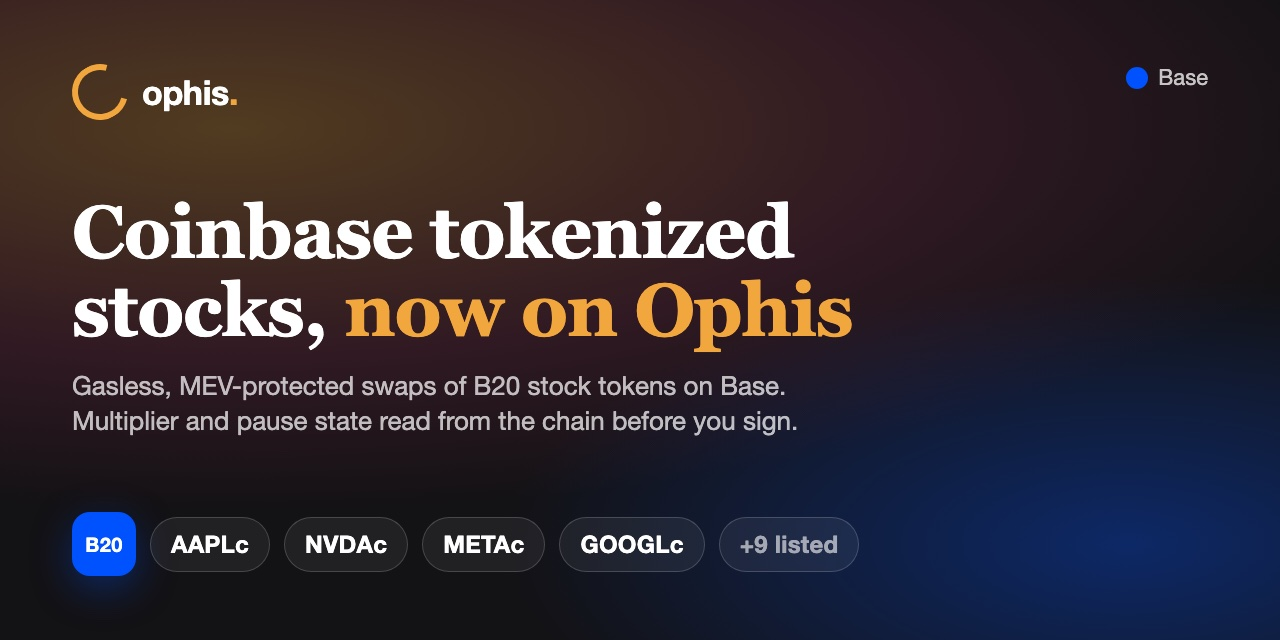
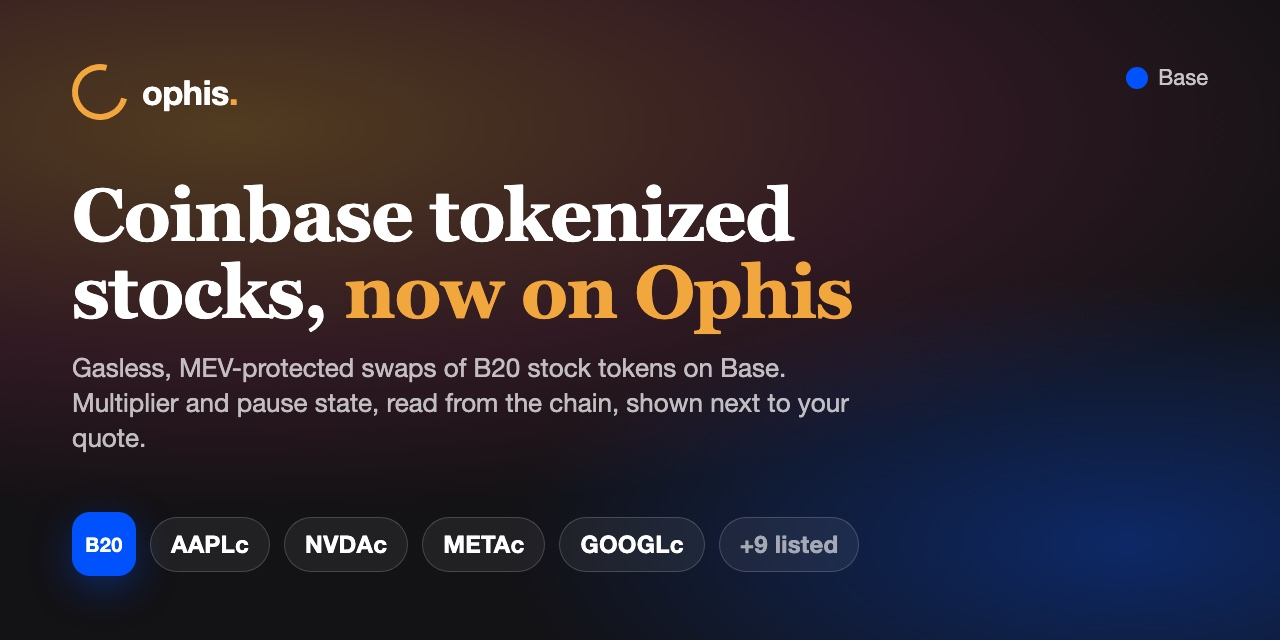
content(blog): tighten the Coinbase stocks post after review
The panel is advisory next to the quote, not a signing gate (cover subtitle
too); permit-free approvals are EOA-only; minting alone does not create
liquidity; rebate tiers are pool weights, not refunds; logos where Coinbase
publishes one; MCP resolve_token on Base does not consult the Coinbase list
yet, so pass addresses.

Claude-Session: https://claude.ai/code/session_016pRzA2xjgTJo61GeKnUXNA

Changed region(s): [[0.0312, 0.2812, 0.6875, 0.7188]]

diff --git a/apps/frontend/apps/ophis-landing/src/content/blog/coinbase-tokenized-stocks-on-base.md b/apps/frontend/apps/ophis-landing/src/content/blog/coinbase-tokenized-stocks-on-base.md
@@ -1,6 +1,6 @@
 ---
 title: "Coinbase tokenized stocks on Base: swap AAPLc, NVDAc and more on Ophis"
-description: "Coinbase's B20 tokenized stocks are live on Base and listed on Ophis: official token list, a stock panel that reads the corporate-action multiplier and pause state from the chain, gasless MEV-protected settlement."
+description: "Coinbase's B20 tokenized stocks are live on Base and listed on Ophis: official token list, a stock panel with the corporate-action multiplier and pause state read from the chain, gasless MEV-protected settlement."
 pubDate: 2026-08-24
 author: Ophis
 tags: [base, tokenized-stocks, coinbase, b20, dex-aggregator, swaps]
@@ -9,7 +9,7 @@ cover: ./coinbase-tokenized-stocks-on-base.cover.jpg
 coverAlt: "Ophis emblem next to a Base blue tile labelled B20, with the AAPLc, NVDAc, METAc and GOOGLc tickers as chips"
 ---
 
-Coinbase launched tokenized stocks on Base on 2026-08-24, and they are listed on Ophis from day one. Open [swap.ophis.fi/#/8453/swap/USDC/AAPLc](https://swap.ophis.fi/#/8453/swap/USDC/AAPLc), connect a wallet, and sign an EIP-712 order: no settlement transaction to broadcast, no gas to pay on an ERC-20 sell, and a signed limit price that is the worst execution you can receive. The tokens are Base-native B20 assets issued by Coinbase, and each one is backed by the underlying share held in regulated custody. Ophis ships its own token list for them, shows a stock panel that reads the corporate-action multiplier and pause state straight from the Base contracts, and routes the order through CoW Protocol's batch auction on Base.
+Coinbase launched tokenized stocks on Base on 2026-08-24, and they are listed on Ophis from day one. Open [swap.ophis.fi/#/8453/swap/USDC/AAPLc](https://swap.ophis.fi/#/8453/swap/USDC/AAPLc), connect a wallet, and sign an EIP-712 order: no settlement transaction to broadcast, no gas to pay on an ERC-20 sell, and a signed limit price that is the worst execution you can receive. The tokens are Base-native B20 assets issued by Coinbase, and each one is backed by the underlying share held in regulated custody. Ophis ships its own token list for them, shows a stock panel next to the quote with the corporate-action multiplier and pause state read from the Base contracts, and routes the order through CoW Protocol's batch auction on Base.
 
 Two sentences of context. Base is chain id 8453, an OP-Stack L2 operated by Coinbase, and one of the 13 EVM chains [Ophis](https://ophis.fi/) supports. Ophis is an intent-based DEX aggregator, a fork of [CoW Protocol](https://docs.cow.fi)'s frontend with a natural-language intent layer and an agent stack on top; on Base it settles through CoW Protocol's hosted orderbook and solver network, so the stock tokens inherit the same MEV protection as every other token on the chain.
 
@@ -19,9 +19,9 @@ Two sentences of context. Base is chain id 8453, an OP-Stack L2 operated by Coin
 
 2. **Connect your wallet.** Ophis is self-custodial. It never holds your funds, and nothing moves without a signature from your wallet (EIP-712 for regular accounts, ERC-1271 for smart-contract accounts).
 
-3. **Pick the stock from the list, or type it.** The Base token selector carries every Coinbase stock with its on-chain symbol, the issuer's logo, and a "Coinbase stock" badge. Search by ticker or company name. Ophis never asks you to paste a contract address for these tokens, which is the point: a token that merely calls itself AAPL is not on that list.
+3. **Pick the stock from the list, or type it.** The Base token selector carries every Coinbase stock with its on-chain symbol, the issuer's logo where Coinbase has published one, and a "Coinbase stock" badge. Search by ticker or company name. Ophis never asks you to paste a contract address for these tokens, which is the point: a token that merely calls itself AAPL is not on that list.
 
-4. **Read the stock panel.** As soon as a Coinbase stock is on either side of the pair, the swap form shows a panel specific to it: the corporate-action multiplier, whether transfers are paused on chain, whether Coinbase has minted supply yet, and the issuer's eligibility statement. More on what each of those means below.
+4. **Read the stock panel.** As soon as a Coinbase stock is on either side of the pair, the swap form shows a panel specific to it: the corporate-action multiplier, whether transfers are paused on chain, whether Coinbase has minted supply yet, and the issuer's eligibility statement. The panel is advisory: it sits next to the quote and says so when its data is unavailable, and it never blocks or alters an order. More on what each of those means below.
 
 5. **Review the quote and sign.** The quote carries a hard limit price, and that limit is what you sign: the worst execution you can receive. Your wallet shows typed data, not a transaction. Orders are gasless, and the fee comes out of the traded amount rather than being billed separately.
 
@@ -50,7 +50,7 @@ One detail is invisible in the app but worth knowing: these tokens have no bytec
 
 ### The thirteen tokens
 
-Thirteen stocks are deployed. Four had supply minted on launch day; the rest exist on chain with zero supply and become tradable the moment Coinbase mints. Ophis lists all thirteen so nothing needs a redeploy when that happens.
+Thirteen stocks are deployed. Four had supply minted on launch day; the rest exist on chain with zero supply. Ophis lists all thirteen, so once Coinbase mints one and a DEX pool holds usable liquidity for it, solvers can quote it without Ophis shipping anything new.
 
 | Token | Company | Address on Base |
 | --- | --- | --- |
@@ -76,9 +76,9 @@ A B20 stock token carries a multiplier. When the underlying pays a dividend or s
 
 On launch day every multiplier reads exactly 1, so the distinction never surfaces. It will. Read the value on the panel rather than assuming it is 1, especially before comparing a token's DEX price to the equity's quote.
 
-## What Ophis checks before you sign
+## What Ophis shows next to the quote
 
-Ophis added a Base-specific verification path in front of the quote, the same way it did for stock tokens on Robinhood Chain.
+Ophis added a Base-specific stock panel beside the quote, the same way it did for stock tokens on Robinhood Chain. It informs the trade; it does not gate it.
 
 **It confirms the token is one Coinbase issued.** The token list Ophis ships for Base was built from the addresses in Base's own documentation, and each entry's name, symbol, decimals and logo were read from the token's on-chain `name()`, `symbol()`, `decimals()` and `contractURI()` rather than typed by hand. That list wins over every other list Ophis loads on Base, so a search for "AAPL" surfaces `AAPLc` with Apple's logo, and the "Coinbase stock" badge is only ever attached through that list. A user-added list cannot spoof it.
 
@@ -86,7 +86,7 @@ Ophis added a Base-specific verification path in front of the quote, the same wa
 
 **It surfaces pauses and unissued supply.** B20 lets the issuer pause transfers per feature. The panel calls `pausedFeatures()` and switches to an attention state if transfers are paused for a token in your pair. It also reads `totalSupply()`: a token that Coinbase has listed but not yet minted shows as "not issued yet", with a note that quotes will return no liquidity until supply exists. That is the state the nine unminted tickers are in at the time of writing.
 
-**It fails visibly, not silently.** The panel's data comes from a same-origin endpoint, [swap.ophis.fi/api/base/tokenized-stocks](https://swap.ophis.fi/api/base/tokenized-stocks), that batches the three views for all thirteen tokens against Base and caches the result at the edge for five minutes. Every value is re-validated before it is served, a failed read is a 502 rather than a partial payload, and there is no stale-while-revalidate window, so an old snapshot is never served as a fresh one. If the endpoint cannot be reached, or a background refresh fails, the panel says the metadata is temporarily unavailable and leaves quoting available so you can decide. Whatever the panel reports, the executable price is always the solver quote.
+**It fails visibly, not silently.** The panel's data comes from a same-origin endpoint, [swap.ophis.fi/api/base/tokenized-stocks](https://swap.ophis.fi/api/base/tokenized-stocks), that batches the three views for all thirteen tokens against Base and caches the result at the edge for five minutes. Every value is re-validated before it is served, a failed read is a 502 rather than a partial payload, and there is no stale-while-revalidate window, so an old snapshot is never served as a fresh one. If the endpoint cannot be reached, or a background refresh fails, the panel says the metadata is temporarily unavailable and leaves quoting and signing available so you can decide; it does not hold your order until a read succeeds. Whatever the panel reports, the executable price is always the solver quote.
 
 **It states the issuer's eligibility.** Coinbase tokenized stocks are only available to persons in eligible jurisdictions outside the U.S. The panel carries that statement on every stock pair. Ophis is a non-custodial interface: it does not hold the tokens, mint them, or redeem them.
 
@@ -94,7 +94,7 @@ Ophis added a Base-specific verification path in front of the quote, the same wa
 
 Base is one of the ten chains where Ophis settles through CoW Protocol's hosted stack rather than its own. Every trade pays the 1 bp Ophis base fee, and Ophis retains 80% of reference-quote improvement on volatile pairs, capped at 99 bps of volume, or 50% on stablecoin pairs, capped at 20 bps; the trader receives the remainder and everything above the cap. CoW Protocol charges its own upstream volume fee on hosted chains, 0.02% on volatile pairs and 0.003% on correlated ones, which Ophis does not receive. A stock-token swap against USDC is a volatile pair, so the all-in fixed cost is 0.03%. The [fee docs](https://docs.ophis.fi/fees) carry the full breakdown per chain type.
 
-Volume then earns part of the Ophis fee back, on rolling 30-day volume:
+Rolling 30-day volume then places you in a rebate tier. The percentage is a weight, not a refund of your own fee: each month, a pool of 21.25% of the WETH fees Ophis collected is split across eligible wallets in proportion to their 30-day volume multiplied by their tier weight.
 
 | Tier | 30-day volume | Rebate |
 | --- | --- | --- |
@@ -104,7 +104,7 @@ Volume then earns part of the Ophis fee back, on rolling 30-day volume:
 | Palladium | $500,000+ | 35% |
 | Platinum | $1,000,000+ | 50% |
 
-Rebates are paid monthly in WETH from the fee Safe, out of a pool of 21.25% of collected WETH fees, split by tier-weighted 30-day volume. Your tier and progress show on the swap page.
+Rebates are paid monthly in WETH from the fee Safe. What a wallet receives depends on the pool and on every other eligible wallet's weighted volume that month. Your tier and progress show on the swap page, and the [fee docs](https://docs.ophis.fi/fees) carry the full mechanics.
 
 ## Coinbase stocks on Base and Robinhood stock tokens: two different products
 
@@ -127,7 +127,7 @@ Everything the app uses is public and keyless.
 
 - **Token list.** [swap.ophis.fi/token-lists/coinbase-tokenized-stocks.json](https://swap.ophis.fi/token-lists/coinbase-tokenized-stocks.json) is a standard Uniswap-schema list with CORS enabled, so any interface can load it. Identify tokens by address; B20 names and symbols are mutable on chain.
 - **Metadata endpoint.** [swap.ophis.fi/api/base/tokenized-stocks](https://swap.ophis.fi/api/base/tokenized-stocks) returns, per token, the multiplier as an 18-decimal string, whether supply is issued, and whether transfers are paused.
-- **MCP server.** [`https://mcp.ophis.fi/mcp`](https://mcp.ophis.fi/mcp) is keyless and unauthenticated. `resolve_token` refuses look-alike symbols, `build_order` returns a bounded order with the receiver pinned to the owner, and the server never holds keys and never signs. The [agent walkthrough](/blog/let-an-ai-agent-swap-tokens/) covers the safety model.
+- **MCP server.** [`https://mcp.ophis.fi/mcp`](https://mcp.ophis.fi/mcp) is keyless and unauthenticated. `build_order` returns a bounded order with the receiver pinned to the owner, and the server never holds keys and never signs. One caveat today: on Base, `resolve_token` consults CoW's default list, not the Coinbase list, so pass these tokens by address from the list above rather than by symbol until the resolver is extended. The [agent walkthrough](/blog/let-an-ai-agent-swap-tokens/) covers the safety model.
 - **SDK.** `@ophis/sdk` resolves the orderbook URL and the EIP-712 signing domain per chain; on Base that is CoW Protocol's canonical settlement domain.
 - **Widget.** `@ophis/widget-react` embeds the swap form directly. See the [widget docs](https://docs.ophis.fi/widget).
 
@@ -139,11 +139,11 @@ Yes. Ophis lists all thirteen Coinbase tokenized stocks on Base, with AAPLc, GOO
 
 ### Do I need ETH on Base to pay gas?
 
-No. Orders are gasless: you sign an EIP-712 typed-data message rather than broadcasting a transaction, the winning solver pays the settlement gas, and the Ophis fee is deducted from the traded amount rather than charged separately. You need a small amount of ETH on Base for a one-time on-chain approval the first time you sell a given token, unless the token supports a gas-free permit signature, which the minted Coinbase stocks do.
+Not for the order itself. Orders are gasless: you sign an EIP-712 typed-data message rather than broadcasting a transaction, the winning solver pays the settlement gas, and the Ophis fee is deducted from the traded amount rather than charged separately. Selling a token for the first time normally needs a one-time on-chain approval, which costs a small amount of ETH on Base. Regular wallets can replace that approval with a gas-free permit signature on tokens that support it, and the minted Coinbase stocks do; smart-contract accounts still send the approval transaction.
 
 ### Why does a stock show "not issued yet" or return no liquidity?
 
-Coinbase deployed thirteen tokens but minted supply for four on launch day. A token with zero supply has no pools to trade in, so a quote returns no liquidity and the Ophis panel labels it as not issued yet. Ophis lists the token anyway so it becomes tradable the moment Coinbase mints, without waiting for a new release.
+Coinbase deployed thirteen tokens but minted supply for four on launch day. A token with zero supply has no pools to trade in, so a quote returns no liquidity and the Ophis panel labels it as not issued yet. Ophis lists the token anyway: once Coinbase mints supply and a DEX pool holds usable liquidity for it, solvers can quote it without waiting for a new Ophis release. Minting alone does not create liquidity.
 
 ### What does the corporate-action multiplier mean?
 
@@ -155,8 +155,8 @@ No. Coinbase tokenized stocks are B20 tokens on Base issued by Coinbase; Robinho
 
 ### How much does a tokenized stock swap cost on Ophis?
 
-On Base, Ophis charges a 1 bp base fee plus 80% of reference-quote improvement on volatile pairs, capped at 99 bps of volume. CoW Protocol adds its own upstream volume fee of 0.02% on volatile pairs, so the all-in fixed cost of a stock-token swap against USDC is 0.03%. Rolling 30-day volume earns 10% to 50% of the Ophis fee back through the rebate tiers.
+On Base, Ophis charges a 1 bp base fee plus 80% of reference-quote improvement on volatile pairs, capped at 99 bps of volume. CoW Protocol adds its own upstream volume fee of 0.02% on volatile pairs, so the all-in fixed cost of a stock-token swap against USDC is 0.03%. Rolling 30-day volume places you in a rebate tier whose weight sets your share of a monthly pool of 21.25% of collected WETH fees.
 
 ## Start swapping
 
-Open [swap.ophis.fi/#/8453/swap/USDC/AAPLc](https://swap.ophis.fi/#/8453/swap/USDC/AAPLc), connect a wallet, and sign your first Coinbase stock order on Base. ERC-20 settlement is gasless, the signed limit is enforced, and the stock panel reads the multiplier and pause state from the chain before you sign. If you are integrating rather than trading, start from the [getting-started guide](https://docs.ophis.fi/getting-started) and load the Coinbase token list from its public URL.
+Open [swap.ophis.fi/#/8453/swap/USDC/AAPLc](https://swap.ophis.fi/#/8453/swap/USDC/AAPLc), connect a wallet, and sign your first Coinbase stock order on Base. ERC-20 settlement is gasless, the signed limit is enforced, and the stock panel shows the multiplier and pause state read from the chain next to your quote. If you are integrating rather than trading, start from the [getting-started guide](https://docs.ophis.fi/getting-started) and load the Coinbase token list from its public URL.
